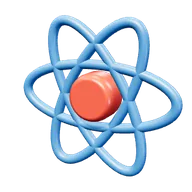
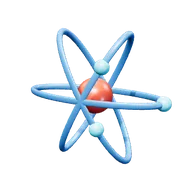
Símbolos modelados en 3D real (18 más): huella, perro, gato, collar, plato de mascota, monitor de signos, marcapasos, silla de ruedas, grupo de personas, diálogo, destellos, robot, chip, placa, rayo, clavija, átomo e imán

diff --git a/datos/simbolos3d/models.js b/datos/simbolos3d/models.js
@@ -34,10 +34,138 @@ export function kit(material,g){
   return K;
 }
 
-const PU='#8E5BB5',TE='#2FA39A',OR='#F08A2E';const GY='#8C96A0',ST='#A9B6C2',BK='#3A4048',WH='#F3F1EA',RE='#DE4A3C',BL='#3F82C4',GR='#4FAE5B',YE='#F6CD3B',BR='#8A5A36',WO='#B9804B',GO='#E8B53C',NA='#2D4A6E',CR='#F0E2C2',SK='#E7A97C';
+const PU='#8E5BB5',TE='#2FA39A',OR='#F08A2E',PK='#F3A3B5';const GY='#8C96A0',ST='#A9B6C2',BK='#3A4048',WH='#F3F1EA',RE='#DE4A3C',BL='#3F82C4',GR='#4FAE5B',YE='#F6CD3B',BR='#8A5A36',WO='#B9804B',GO='#E8B53C',NA='#2D4A6E',CR='#F0E2C2',SK='#E7A97C';
 
 const circ=(cx,cy,r,n,a0,a1)=>{a0=a0==null?0:a0;a1=a1==null?Math.PI*2:a1;const o=[];for(let i=0;i<n;i++){const a=a0+(a1-a0)*i/(n-(Math.abs(a1-a0-Math.PI*2)<1e-6?0:1));o.push([cx+Math.cos(a)*r,cy+Math.sin(a)*r])}return o};
 export const MODELS={
+  // Huella de perro con cruz veterinaria, almohadillas abombadas
+  'veterinaria.a'(K){
+    const B='#6B3F2A';
+    K.sph(22,B,{p:[0,-12,0],s:[1.1,0.85,0.45]});
+    [[-28,10,-25],[-11,26,-8],[11,26,8],[28,10,25]].forEach(([x,y,a])=>K.sph(9,B,{p:[x,y,0],s:[0.85,1.15,0.5],r:[0,0,a]}));
+    [9.6,-9.6].forEach(z=>{K.box(16,5,2,WH,{p:[0,-12,z],rad:1});K.box(5,16,2,WH,{p:[0,-12,z],rad:1})});
+  },
+  // Cabeza de perro: hocico, nariz, ojos, orejas caídas
+  'o_perro.a'(K){
+    const C='#D9A06A';
+    K.sph(26,C,{s:[1,1,0.9]});
+    K.sph(14,'#F2D6B3',{p:[0,-10,16],s:[1,0.8,0.9]});
+    K.sph(5,'#2B2B2B',{p:[0,-4,28],s:[1.2,0.9,0.9]});
+    [-1,1].forEach(sd=>{K.sph(4,'#2B2B2B',{p:[sd*10,8,22]});K.sph(1.2,WH,{p:[sd*10-1,9.6,25.6]});
+      K.sph(11,'#8A5A36',{p:[sd*25,-4,0],s:[0.55,1.3,0.9],r:[0,0,sd*15]})});
+    K.tube([[-5,-16,26],[0,-19,27],[5,-16,26]],0.9,'#2B2B2B',{});
+  },
+  // Cabeza de gato: orejas con interior rosa, ojos, nariz, bigotes
+  'o_gato.a'(K){
+    const C='#B4BDC6';
+    K.sph(28,C,{s:[1.05,0.95,0.85]});
+    [-1,1].forEach(sd=>{const e=K.group({p:[sd*16,24,0],r:[0,0,-sd*20]});K.cone(10,20,C,{parent:e,seg:4,r:[0,45,0]});K.cone(6,12,PK,{parent:e,p:[0,-2,4],seg:4,r:[0,45,0]});
+      K.sph(5,'#9BD58A',{p:[sd*10,4,21],s:[0.9,1.2,0.5]});K.sph(2,BK,{p:[sd*10,4,23.4],s:[0.5,1.4,0.5]});
+      [-3,3].forEach(dy=>K.tube([[sd*12,-8+dy*0.3,20],[sd*38,-6+dy,16]],0.4,'#5B6670',{nocap:true}))});
+    K.cone(3,3,PK,{p:[0,-5,24],r:[180,0,0]});
+  },
+  // Collar rojo con hebilla y placa dorada
+  'o_collar.a'(K){
+    K.tor(28,4.5,RE,{s:[1,1,0.7]});
+    for(let i=0;i<10;i++){const a=Math.PI*0.65+i*0.17;K.cyl(1,1,2,'#B23A2E',{p:[Math.cos(a)*28,Math.sin(a)*28,3.4],r:[90,0,0]})}
+    K.box(12,12,10,ST,{m:'metal',p:[0,28,0],rad:2});K.box(6,8,11,'#5B6670',{p:[0,28,0],rad:1});
+    K.tor(3.4,1.1,GO,{m:'gold',p:[0,-33,0]});
+    K.cyl(11,11,2.6,GO,{m:'gold',p:[0,-46,0],r:[90,0,0]});
+    [1.6,-1.6].forEach(z=>K.ext('M0 -6 L1.8 -2 L6 -1.8 L2.8 1 L3.8 5.4 L0 3 L-3.8 5.4 L-2.8 1 L-6 -1.8 L-1.8 -2 Z',0.8,'#B8861C',{m:'gold',bevel:0.4,p:[0,-46,z]}));
+  },
+
+  // Plato de acero para mascota con croquetas
+  'o_platom.a'(K){
+    K.lathe([[0.01,-12],[38,-12],[40,-10],[30,10],[28,11],[24,4],[0.01,4]],ST,{m:'metal'});
+    for(let i=0;i<22;i++){const a=i*2.4,r=4+i*0.95;K.sph(3.4,i%3?'#8A5A36':'#6E4426',{p:[Math.cos(a)*r,5+Math.sin(i)*1.4,Math.sin(a)*r],s:[1,0.7,1]})}
+  },
+  // Monitor de signos vitales con onda, base y perillas
+  'biomedica.b'(K){
+    K.box(76,52,22,'#5B6670',{p:[0,8,0],rad:5});K.box(58,38,1,'#13283B',{p:[-6,10,11.2],rad:2});
+    K.tube([[-32,8,12],[-20,8,12],[-16,18,12],[-11,-4,12],[-7,12,12],[-4,8,12],[18,8,12]],1,'#5BE07A',{tension:0});
+    [16,4,-8].forEach(y=>K.cyl(3,3,3,'#3A4048',{p:[30,y,11],r:[90,0,0]}));
+    K.box(30,6,26,GY,{p:[0,-21,0],rad:2});K.box(60,4,1,'#3A4048',{p:[0,28,-11.4],rad:1});
+  },
+  // Marcapasos con su cable
+  'o_marcapasos.a'(K){
+    K.cyl(24,24,9,ST,{m:'metal',r:[90,0,0],s:[1,1.1,1]});
+    K.box(22,12,10,'#E9E3D6',{p:[0,30,0],rad:3});
+    [5.2,-5.2].forEach(z=>K.tube([[-10,0,z],[-4,0,z],[-1,7,z],[3,-8,z],[6,0,z],[12,0,z]],0.8,'#3E9E78',{tension:0}));
+    K.tube([[6,36,0],[14,46,0],[30,44,4],[38,26,6],[40,4,4]],1.6,BK,{});
+  },
+  // Silla de ruedas
+  'o_silla.a'(K){
+    [-1,1].forEach(sd=>{const z=sd*14;K.tor(24,1.6,BK,{p:[-4,-6,z]});K.tor(20,0.8,ST,{m:'metal',p:[-4,-6,z+sd*2]});
+      for(let i=0;i<8;i++){const a=i/8*Math.PI*2;K.tube([[-4,-6,z],[-4+Math.cos(a)*23,-6+Math.sin(a)*23,z]],0.4,GY,{m:'metal',nocap:true})}
+      K.cyl(4,4,3,BK,{p:[24,-26,z*0.9],r:[90,0,0]});K.tube([[18,0,z*0.9],[24,-22,z*0.9]],1.2,ST,{m:'metal'});
+      K.tube([[-14,36,z],[-12,6,z],[18,0,z]],1.3,ST,{m:'metal',tension:0.1});K.tube([[-14,36,z],[-22,38,z]],1.6,BK,{})});
+    K.box(30,4,28,BL,{p:[2,4,0],rad:2});K.box(4,26,28,BL,{p:[-13,20,0],r:[0,0,-6],rad:2});
+  },
+  // Grupo de tres personas
+  'sociologia.a'(K){
+    [[0,6,6,BL,1],[-24,0,-6,OR,0.85],[24,0,-6,GR,0.85]].forEach(([x,y,z,c,k])=>{K.sph(11*k,c,{p:[x,y+24*k,z]});K.cap(15*k,10*k,c,{p:[x,y-6*k,z],s:[1,1,0.7]})});
+  },
+  // Dos burbujas de diálogo con líneas de texto
+  'sociologia.b'(K){
+    K.ext('M-34 -36 H10 C16 -36 18 -32 18 -26 V-6 C18 0 16 4 10 4 H-16 L-26 14 V4 H-34 C-40 4 -42 0 -42 -6 V-26 C-42 -32 -40 -36 -34 -36 Z',10,BL,{bevel:2,p:[0,0,-6]});
+    K.ext('M-6 -2 H34 C40 -2 42 2 42 8 V28 C42 34 40 38 34 38 H28 V48 L18 38 H-6 C-12 38 -14 34 -14 28 V8 C-14 2 -12 -2 -6 -2 Z',10,OR,{bevel:2,p:[2,0,8]});
+    [[-30,24,22],[-30,18,14]].forEach(([x,y,w])=>K.box(w,2.4,1,WH,{p:[x+w/2,y,-0.2],rad:1}));
+    [[-6,-12,30],[-6,-20,20]].forEach(([x,y,w])=>K.box(w,2.4,1,WH,{p:[x+w/2,y,14.2],rad:1}));
+  },
+  // Destellos de IA
+  'o_chispa.a'(K){
+    const st='M0 -40 C3 -10 10 -3 40 0 C10 3 3 10 0 40 C-3 10 -10 3 -40 0 C-10 -3 -3 -10 0 -40 Z';
+    K.ext(st,10,PU,{bevel:3});
+    const a=K.group({p:[32,30,0],s:[0.38,0.38,0.6]});K.ext(st,10,'#B78BE0',{bevel:3,parent:a});
+    const b=K.group({p:[30,-32,0],s:[0.25,0.25,0.5]});K.ext(st,10,'#B78BE0',{bevel:3,parent:b});
+  },
+  // Robot: cabeza con visor, ojos, antena, orejas y rejilla
+  'ia.a'(K){
+    K.box(64,52,46,ST,{m:'metal',rad:12});K.box(50,24,4,'#2B3540',{p:[0,4,22],rad:8});
+    [-12,12].forEach(x=>{K.sph(6,'#5BD3F5',{p:[x,4,24],s:[1,1,0.5]})});
+    for(let i=0;i<5;i++)K.box(2,8,2,'#3A4048',{p:[-10+i*5,-16,23],rad:0.6});
+    K.cyl(1.6,1.6,14,GY,{m:'metal',p:[0,32,0]});K.sph(5,RE,{p:[0,41,0]});
+    [-1,1].forEach(sd=>K.cyl(8,8,8,GY,{m:'metal',p:[sd*35,0,0],r:[0,0,90]}));
+  },
+  // Chip con patas en los cuatro lados
+  'electronica.a'(K){
+    K=Object.assign({},K);const G=K.group({r:[55,0,0]});const o=K;['box','cyl'].forEach(f=>{const fn=o[f];K[f]=(...a)=>{const op=a[a.length-1];op.parent=op.parent||G;return fn(...a)}});
+    K.box(54,10,54,'#2B3540',{rad:3});K.cyl(3,3,1,'#5B6670',{p:[-18,5.2,-18]});
+    for(let i=0;i<5;i++){const t=-18+i*9;[[t,0,31,0],[t,0,-31,0],[31,0,t,90],[-31,0,t,90]].forEach(([x,y,z,r])=>{K.box(4,2,10,'#C9D0D6',{m:'metal',p:[x,-1,z],r:[0,r,0],rad:0.5});K.box(4,6,2,'#C9D0D6',{m:'metal',p:[x+(r?Math.sign(x)*4:0),-4,z+(r?0:Math.sign(z)*4)],r:[0,r,0],rad:0.5})})}
+  },
+  // Placa de circuito con chip, componentes y pistas
+  'electronica.b'(K){
+    K=Object.assign({},K);const G=K.group({r:[55,0,0]});const o=K;['box','cyl'].forEach(f=>{const fn=o[f];K[f]=(...a)=>{const op=a[a.length-1];op.parent=op.parent||G;return fn(...a)}});
+    K.box(80,4,62,'#2F8F4E',{rad:2});
+    [[-20,-14,24,0],[-8,10,0,20],[10,-20,30,0],[30,-4,0,18]].forEach(([x,z,w,d])=>K.box(w||1.6,0.5,d||1.6,'#E3B54A',{m:'gold',p:[x,2.2,z],rad:0.2}));
+    K.box(18,4,18,'#2B3540',{p:[0,4,0],rad:1});
+    K.cyl(4,4,10,'#3A82C4',{p:[24,7,16]});K.cyl(3,3,8,'#1F1F1F',{p:[-26,6,16]});
+    K.box(10,3,4,'#D9B48A',{p:[-22,3.6,-18],rad:1.4});
+    [[-36,-27],[36,-27],[-36,27],[36,27]].forEach(([x,z])=>K.cyl(2.4,2.4,4.4,'#1F5E36',{p:[x,0,z]}));
+  },
+  // Rayo
+  'electrica.a'(K){
+    K.ext('M8 -46 L-24 6 L-2 6 L-12 46 L24 -8 L2 -8 L14 -46 Z',14,YE,{bevel:3});
+  },
+  // Clavija con patas, cuerpo estriado y cable
+  'electrica.b'(K){
+    K.box(40,34,24,WH,{rad:8});
+    [-9,9].forEach(x=>{K.box(5,24,2,ST,{m:'metal',p:[x,28,0],rad:0.6});K.cyl(1.4,1.4,2.4,'#5B6670',{p:[x,32,0],r:[90,0,0]})});
+    for(let i=0;i<4;i++)K.box(40.6,1,24.6,'#D9DCD6',{p:[0,-4-i*3.6,0],rad:0.5});
+    K.cyl(7,5,10,'#2B3540',{p:[0,-22,0]});K.tube([[0,-26,0],[0,-36,0],[10,-44,6],[24,-42,10]],3,'#2B3540',{});
+  },
+  // Átomo: núcleo y tres órbitas con electrones
+  'fisica.a'(K){
+    K.sph(9,RE);
+    [0,60,120].forEach((a,i)=>{const g=K.group({r:[0,0,a]});K.tor(36,1.6,BL,{parent:g,r:[90,0,0],s:[1,0.4,1]});
+      const e=new THREE.Vector3(36,0,0);K.sph(3.6,'#5BD3F5',{p:[36*Math.cos(i),0,14*Math.sin(i)],parent:g})});
+  },
+  // Imán de herradura con polos plateados y chispas
+  'fisica.b'(K){
+    K.tor(22,8,RE,{arc:180,r:[0,0,180],p:[0,0,0]});
+    [-22,22].forEach(x=>{K.cyl(8,8,20,RE,{p:[x,10,0]});K.cyl(8.1,8.1,12,ST,{m:'metal',p:[x,26,0]})});
+  },
+
   // Silbato metálico con cámara, boquilla, ranura, argolla y cordón
   'educfisica.a'(K){
     K.cyl(16,16,16,ST,{m:'metal',r:[90,0,0]});K.box(36,13,16,ST,{m:'metal',p:[20,9,0],rad:3});
